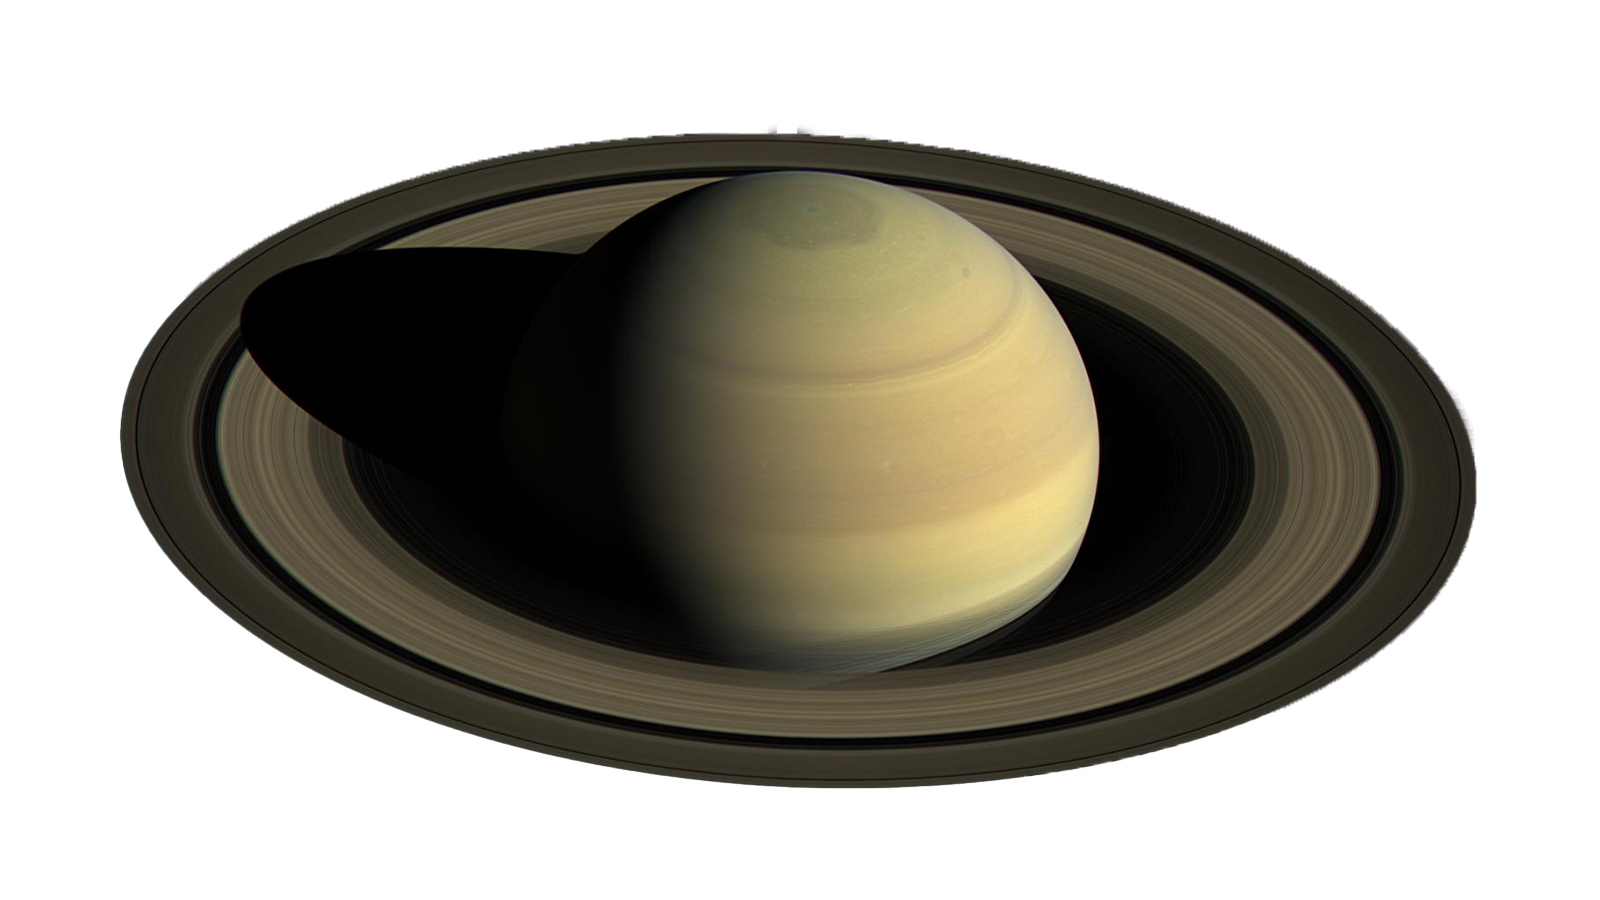
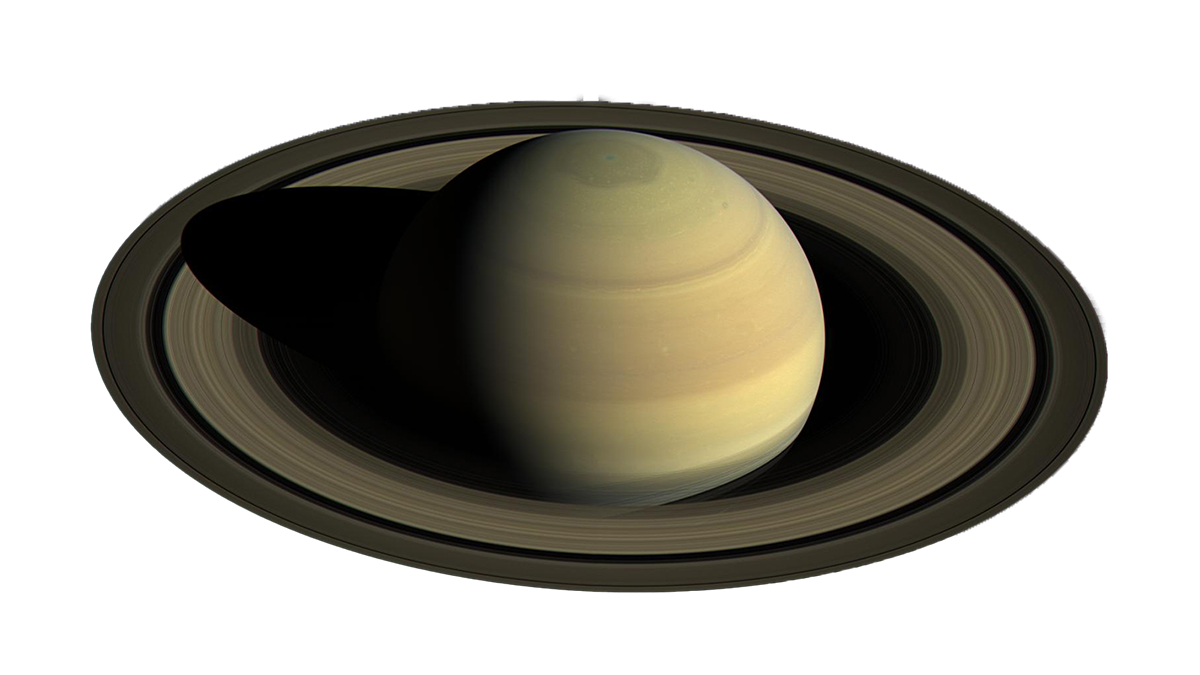
Update css, images, and planet handlebars

diff --git a/public/css/style.css b/public/css/style.css
@@ -644,7 +644,8 @@ input[type='file'] {
 #planet {
   position: absolute;
   margin-top: 200px;  
-  height: 500px;
+  height: 50%;
+  z-index: -20;
 }
 
 #messageInput {
@@ -657,6 +658,14 @@ input[type='file'] {
   width: 300px;
   color: black;
   z-index: -5;
+  opacity: 75%;
+}
+
+#commentSubmit {
+  color: black;
+  height: 30px;
+  width: 80px;
+  opacity: 75%;
 }
 
 /* Media queries */
@@ -705,6 +714,8 @@ input[type='file'] {
 	width: 350px;
 	position: relative;
 	overflow: hidden;
+  margin-top: -500px;
+  margin-left: 70%;
 	
 	&::after {
 		content: '';

diff --git a/public/css/solar.css b/public/css/solar.css
@@ -1549,7 +1549,7 @@ body {
   }
 }
   
-/* Menu for log out and about */
+/* Menu */
 
 .hexagon-item {
   cursor: pointer;
